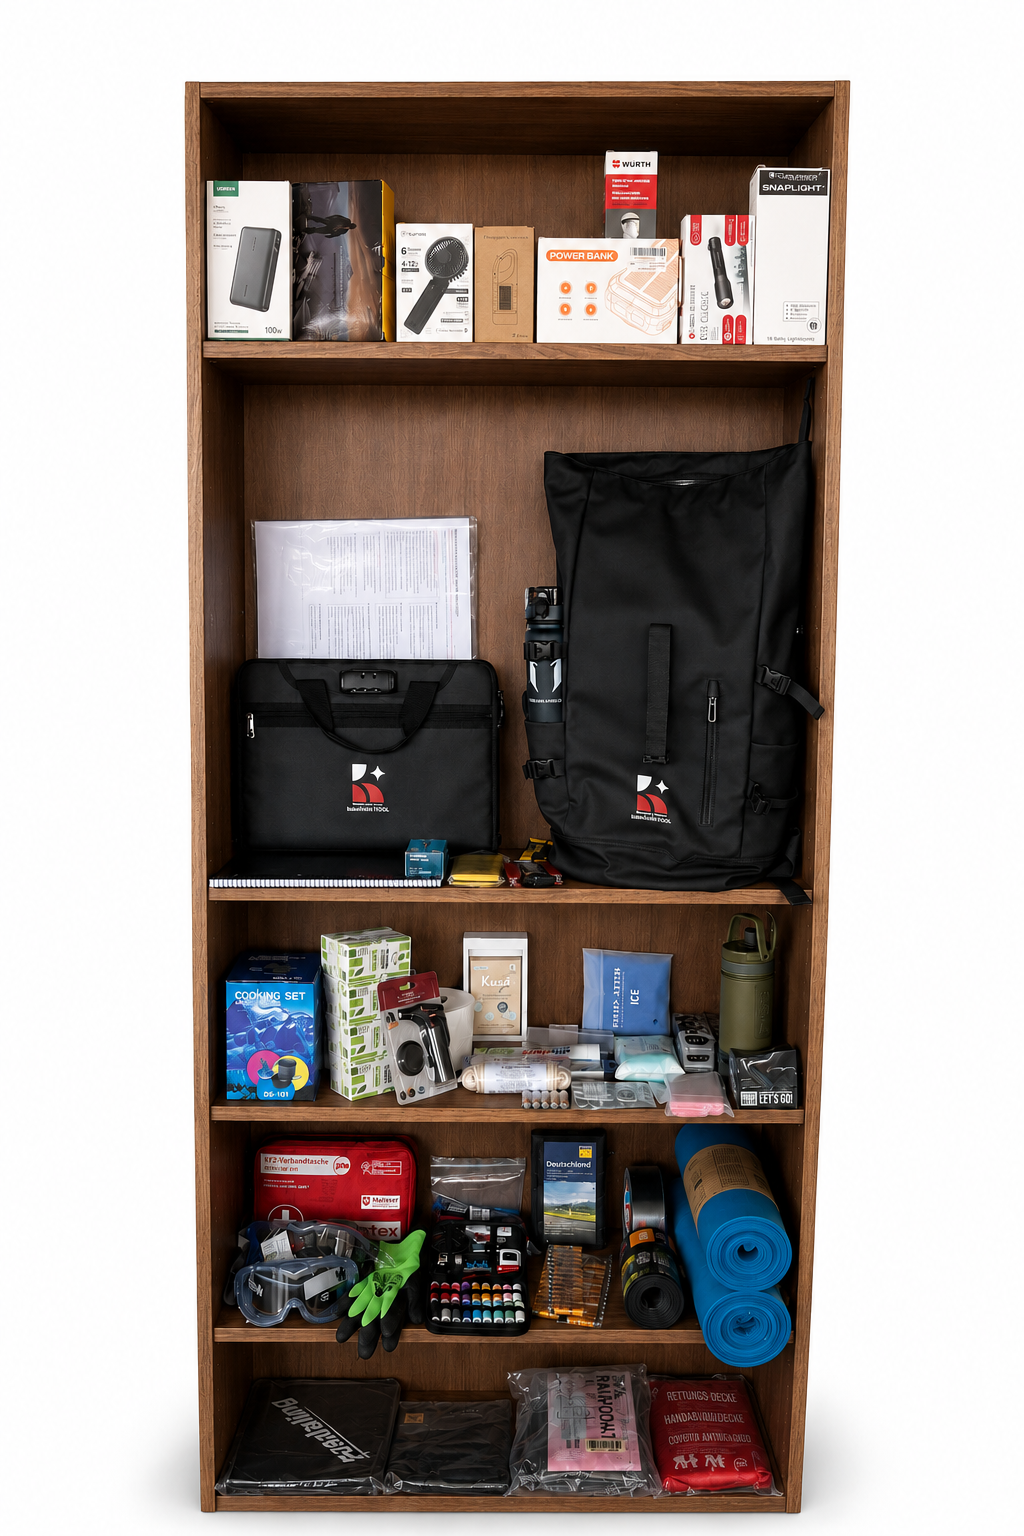
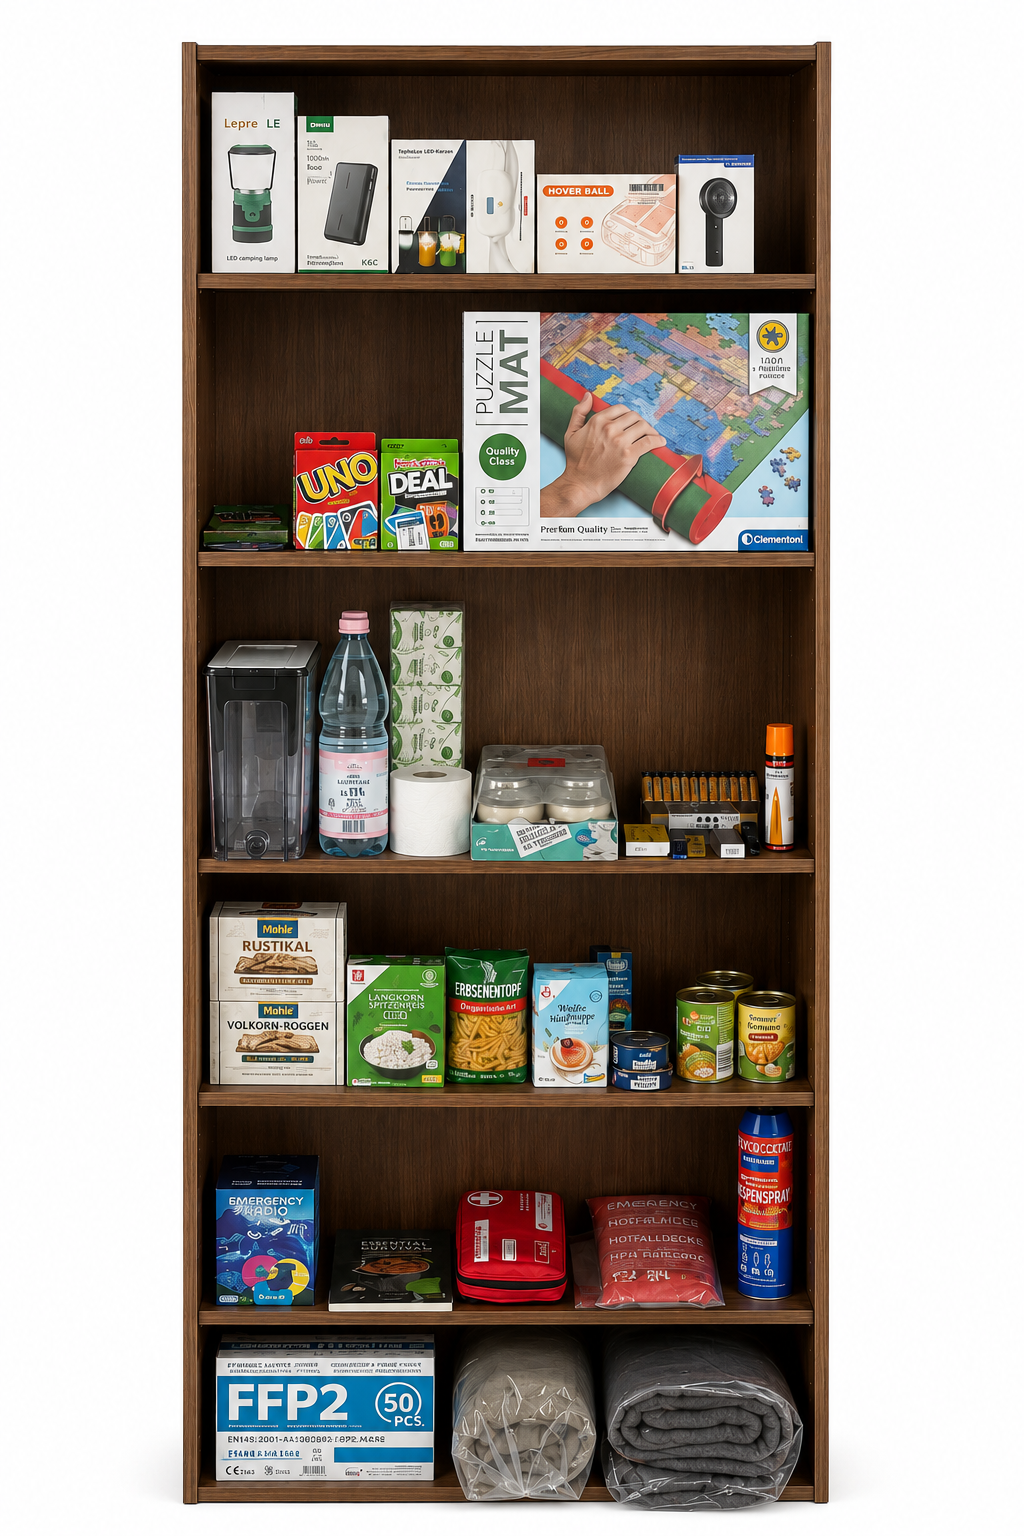
fixed bugs 6

diff --git a/public/assets/js/data/threats.js b/public/assets/js/data/threats.js
@@ -122,7 +122,7 @@ export const THREATS = {
     },
     "Social Disasters": {
         icon: "fa-solid fa-people-group",
-        image: "Social-Crises-scenarios.png",
+        image: "Social-Crises-scenarios.jpeg",
         threats: [
             { name: "Resource overconsumption", desc: "Inequality in consumption threatens global and economic stability.", likelihood: "High", impact: "Medium", speed: "Slow", consequences: ["Resource scarcity", "Economic instability", "Price volatility", "Social inequality"], products: [{ name: "Home Preparedness Kit", href: "takekontrol-revamp.html#home-kit" }] },
             { name: "Failed integration", desc: "Political radicalization and nationalism destabilize European states.", likelihood: "Medium", impact: "High", speed: "Slow", consequences: ["Political instability", "Civil unrest", "Radicalization", "Weakened institutions"], products: [{ name: "Standard Backpack", href: "takekontrol-revamp.html#standard-backpack" }] },

diff --git a/public/takekontrol-revamp.html b/public/takekontrol-revamp.html
@@ -317,7 +317,7 @@
                     <p class="description" data-i18n="desc_essential">Immediate evacuation equipment covering the first critical phase of an emergency.</p>
                     
                     <div class="product-card-bottom">
-                        <div class="price">€89.99 <span class="vat" data-i18n="vat_label">excl. VAT</span></div>
+                        <div class="price">€49.99 <span class="vat" data-i18n="vat_label">excl. VAT</span></div>
                         <div class="best-for">
                             <span class="label" data-i18n="bestfor_label">Best For</span>
                             <span data-i18n="bf_ess_1">First preparedness kit</span>
